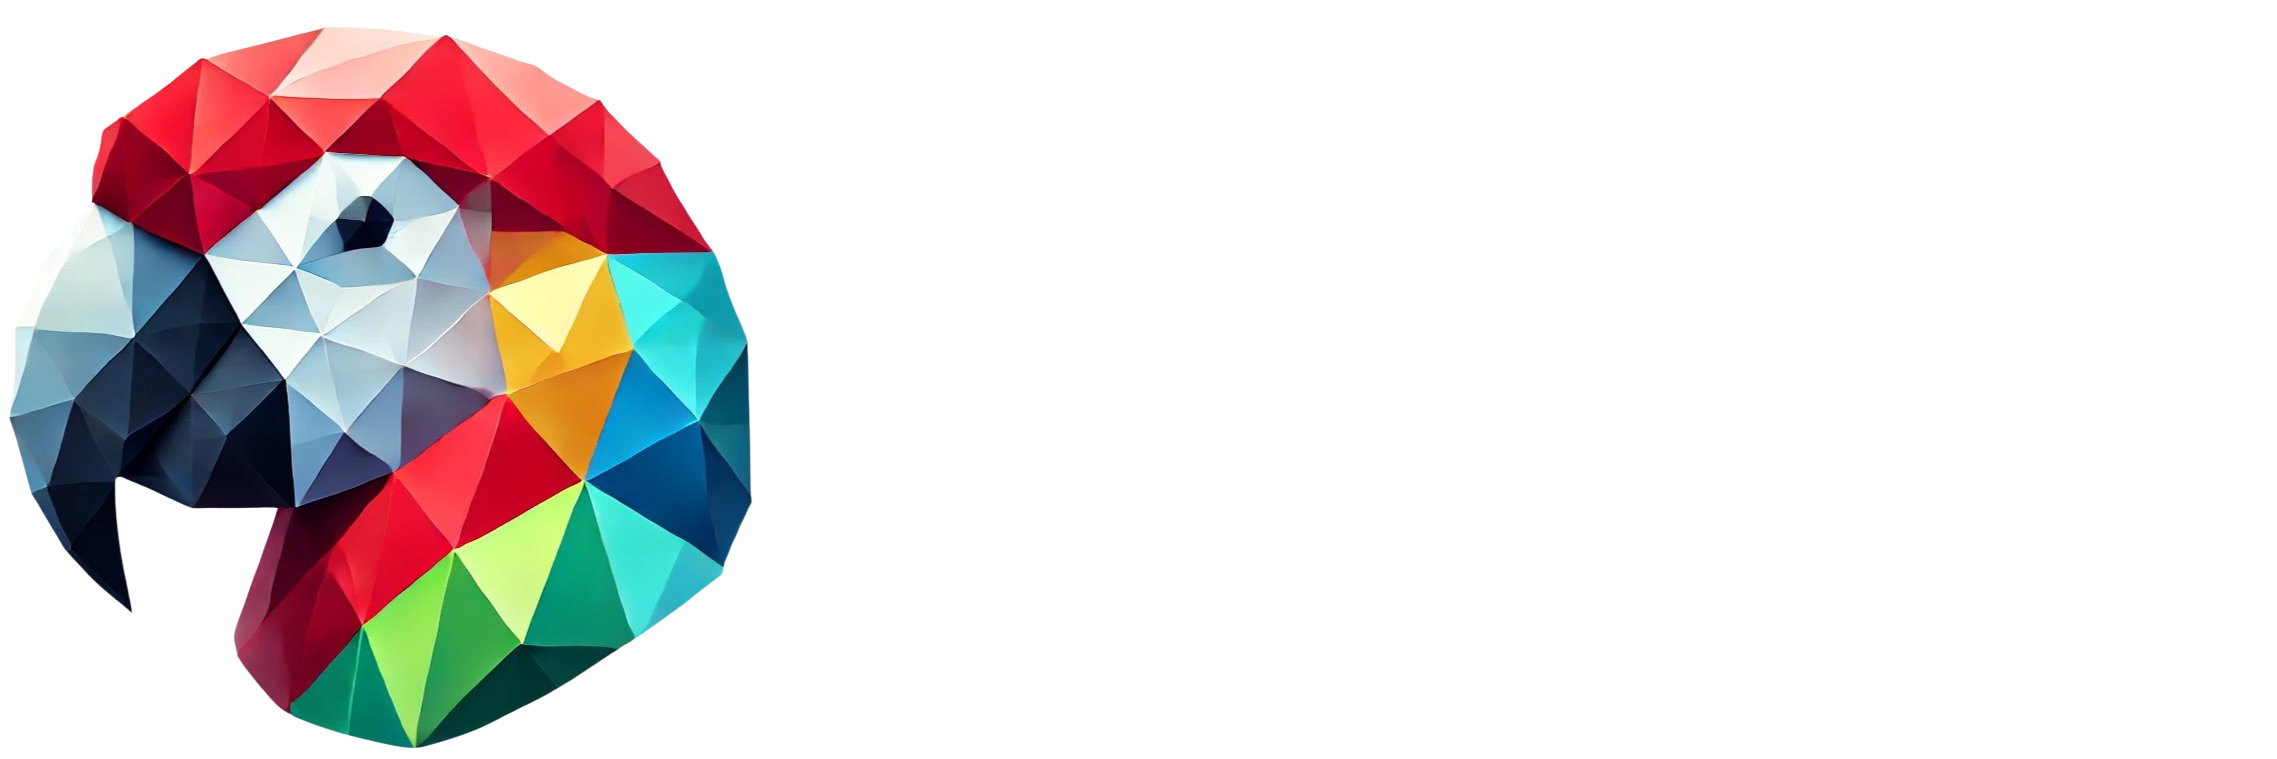
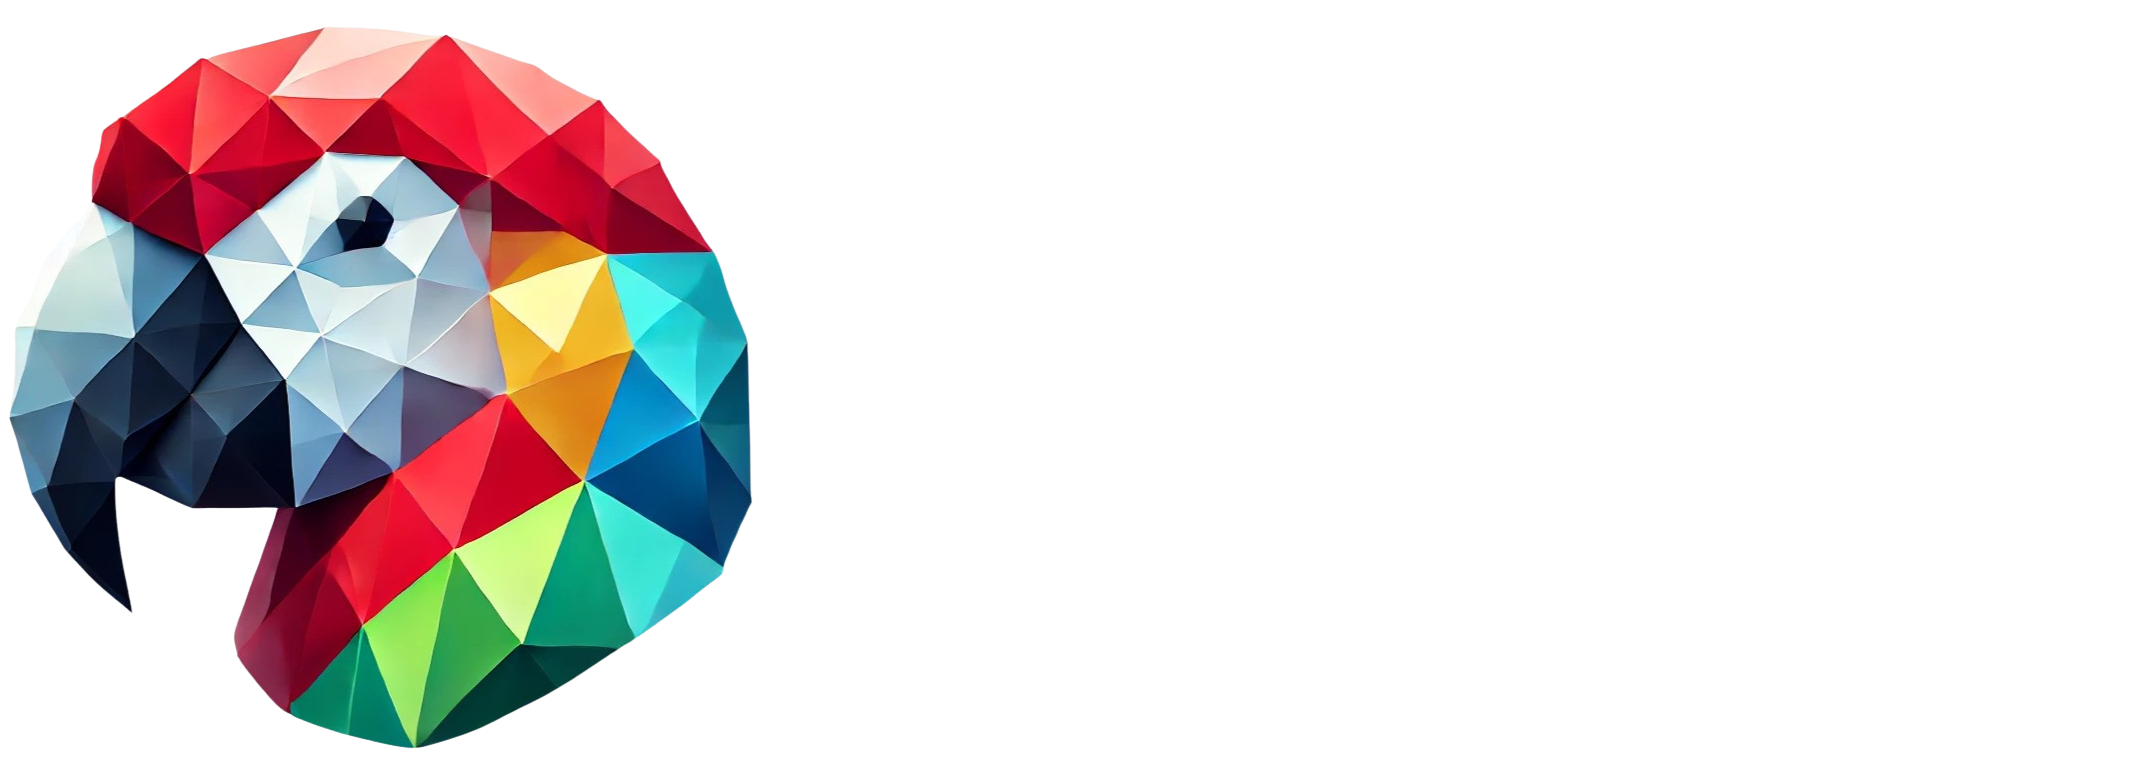
update parrot-title font with cascadia code

Changed region(s): [[0.0, 0.0303, 0.3699, 1.0]]

diff --git a/README.md b/README.md
@@ -1,4 +1,4 @@
-![parrot-title](https://github.com/user-attachments/assets/fec7fd83-f8b3-4cee-80c9-f19e265fca0c)
+![parrot-title](https://github.com/user-attachments/assets/1056fc4a-0e39-4856-b956-507c1975ae27)
 # Parrot
 Parrot is a game engine written in C++ created for educational purposes.
 The engine lets you develop games using custom asset formats and C++ scripts.
